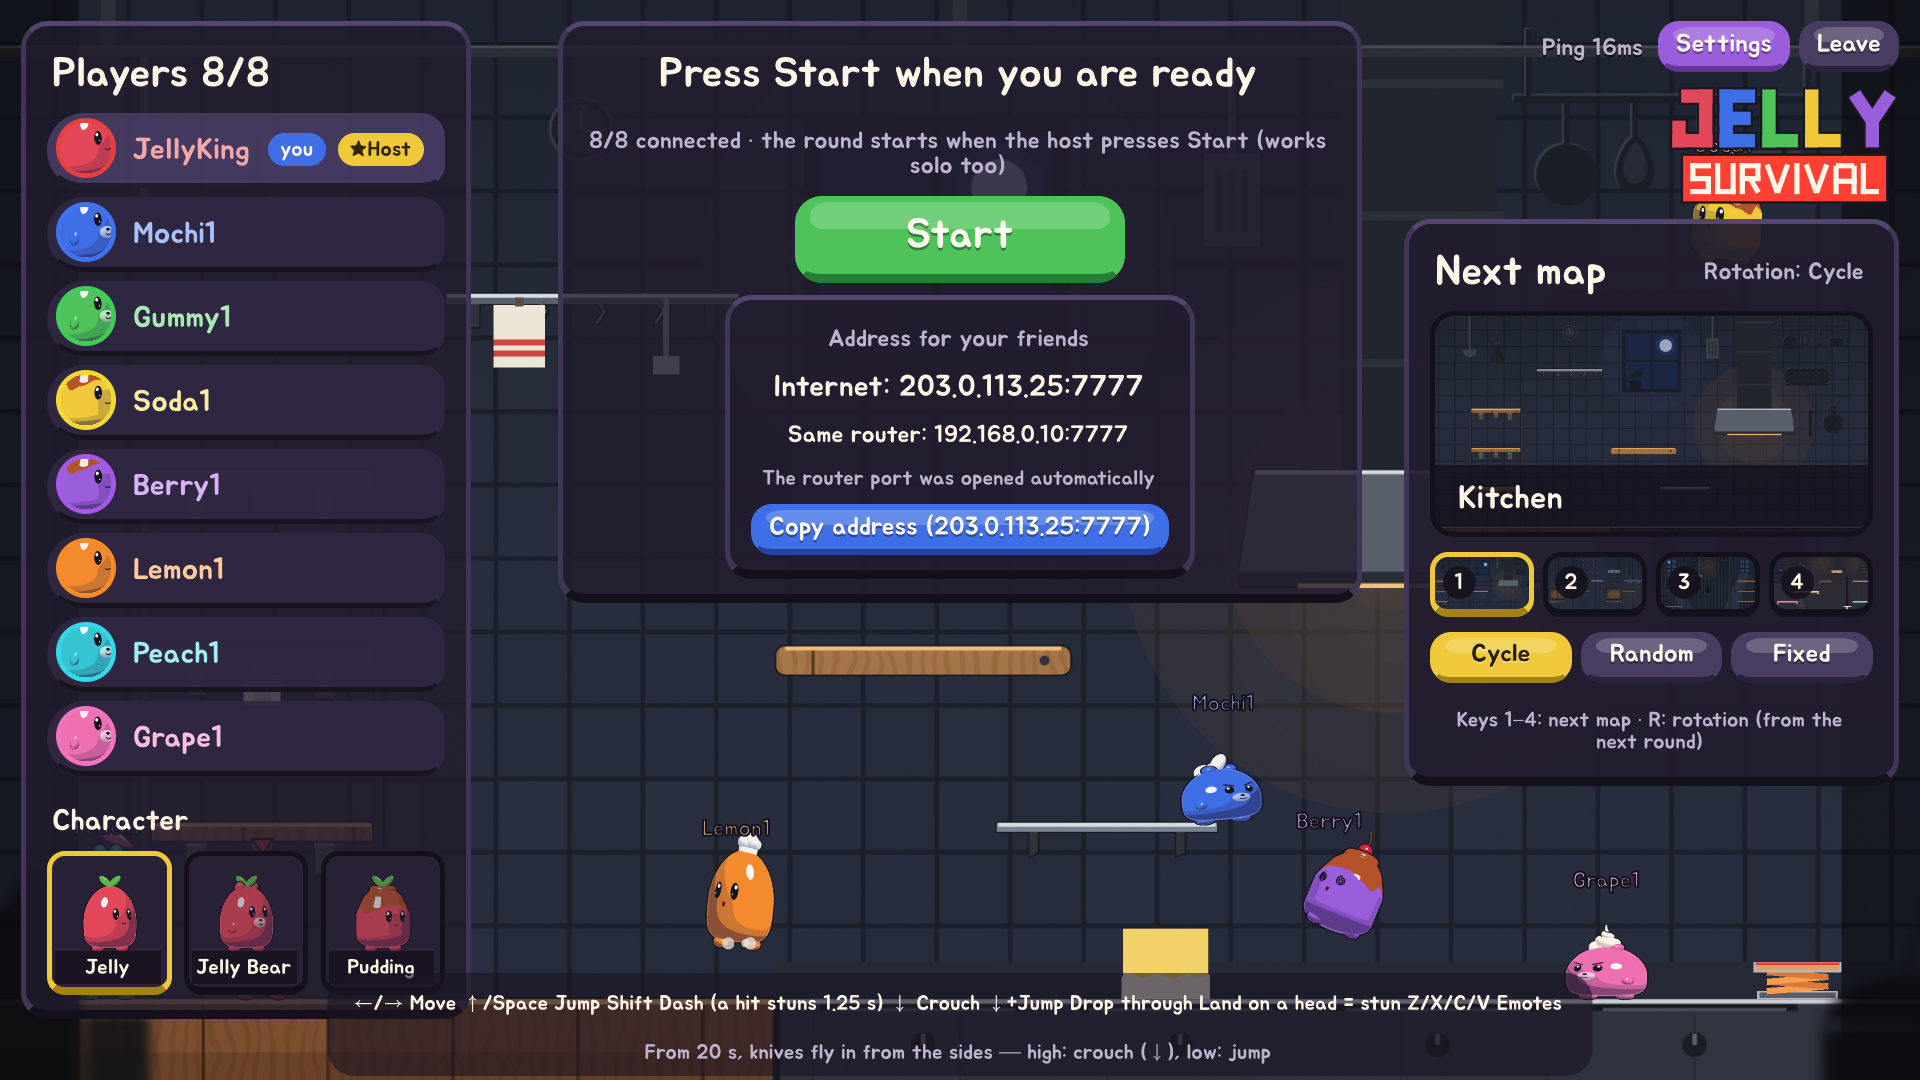
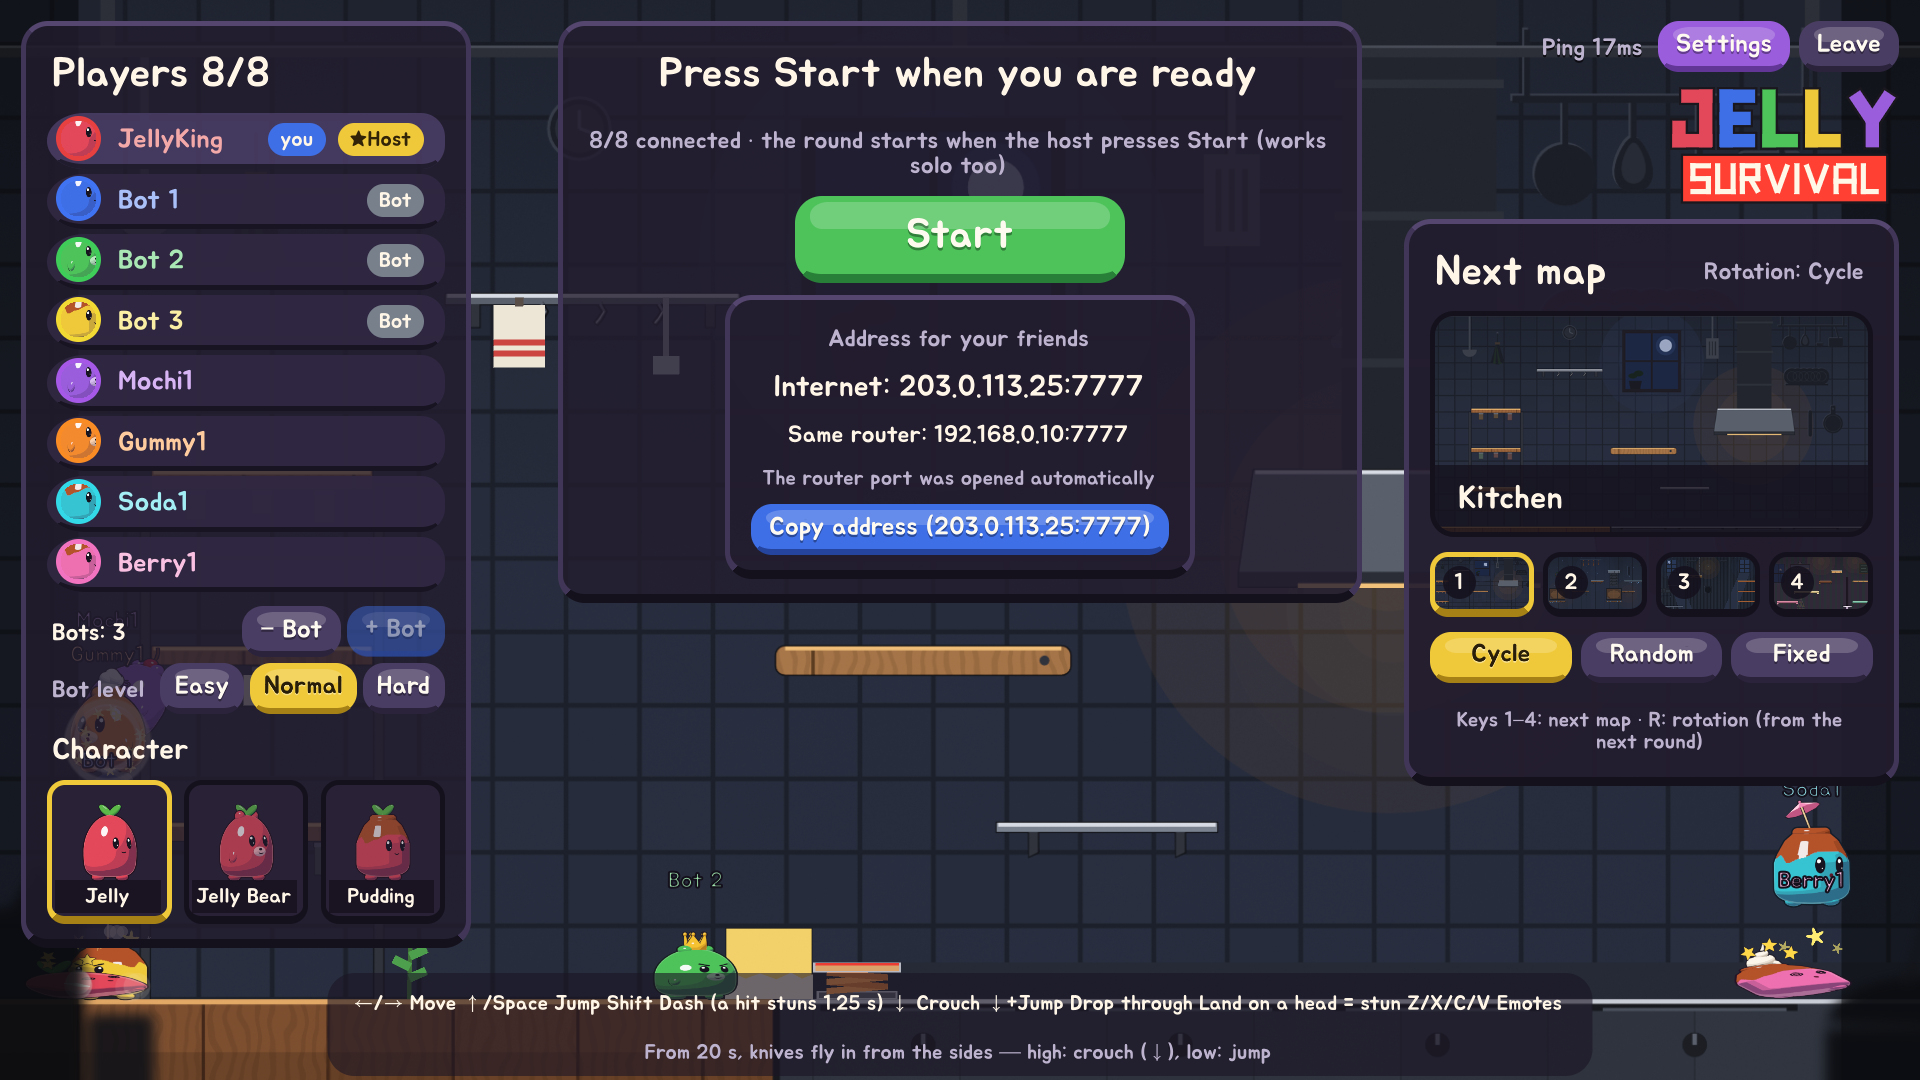
Store update 1.0.2.0: play solo and bots, submitted for certification
Submission 1 (1.0.1.0) passed certification and is live in the Store.
Submission 2 carries the solo/bots build (protocol v14):
- Package version 1.0.2.0 (store_config.json), uploaded and validated.
- Listing (ko/en): solo play against 7 bots with a level, host bot
  controls, two more product features, release notes; the "no computer
  opponents" line is gone. Screenshots 01 and 02 retaken.
- Client -bots N (host adds N server bots in the lobby) for the lobby
  screenshot; take_screenshots.py uses 4 console bots plus -bots 3.
- Certification notes point testers at Play solo.
- docs/work/store.md section 16, bots.md.

diff --git a/Client/Assets/Scripts/Game/GameBootstrap.cs b/Client/Assets/Scripts/Game/GameBootstrap.cs
@@ -18,6 +18,7 @@ namespace OnlineSeverGame.Client.Game
     //   -host(켜자마자 방 만들기) -autostart(방장이면 대기 화면에서 바로 '시작')  -port <N>(방 만들기 포트, 기본 7777)
     //   -demoaddress(Store 스크린샷용: 방장 주소 칸에 예시 주소, UPnP 안 함)
     //   -offline [easy|normal|hard](켜자마자 혼자 하기: 이 PC 안의 서버 + 봇 7명, docs/work/bots.md)
+    //   -bots <N>(방장이면 대기 화면에서 서버 봇 N명을 넣는다. Store 스크린샷용)
     //   -name <이름>  -server <host:port>  -autoconnect  -preview  -autoplay [chase|stomp|mash|motion|pad](무작위 입력 / 가까운 상대 쫓아 대시 / 쫓아 밟기 / 대시 연타 / 동작 차례로 보이기 / 점프 발판 밀고 타기)
     //   -nostomppredict(밟기 튕김 예측 끄기, 비교 시험용)
     //   -screenshot <파일경로> -screenshotDelay <초> [-screenshotEvery <초>]  -quitAfter <초>
@@ -62,6 +63,7 @@ namespace OnlineSeverGame.Client.Game
         ClientScreen _loggedScreen = ClientScreen.Connect;
         int _builtLayoutVersion;
         bool _autoStart, _autoStarted;
+        int _autoBots;
 
         void Awake()
         {
@@ -107,6 +109,7 @@ namespace OnlineSeverGame.Client.Game
                     case "-autoconnect": autoConnect = true; break;
                     case "-host": autoHost = true; break;
                     case "-autostart": _autoStart = true; break;
+                    case "-bots": if (int.TryParse(next, out var nb) && nb > 0) _autoBots = Mathf.Min(nb, 7); break;
                     case "-demoaddress": LocalHost.DemoAddress = true; break;
                     case "-port": if (int.TryParse(next, out var port) && port > 0 && port < 65536) HostPort = port; break;
                     case "-preview": preview = true; break;
@@ -185,6 +188,10 @@ namespace OnlineSeverGame.Client.Game
                 // 이모트: 접속 화면(이름 입력)만 빼고. 살아 있는지는 세션·서버가 본다.
                 var emote = _input.TakeEmote();
                 if (emote != 0 && screen != ClientScreen.Connect) Session.SendEmote(emote);
+                if (_autoBots > 0 && Session.State.IsHost && screen == ClientScreen.Lobby)
+                {
+                    for (; _autoBots > 0; _autoBots--) Session.RequestBot(BotAction.Add, 0);
+                }
                 if (_autoStart && !_autoStarted && Session.State.IsHost && Session.State.HostStarts && screen == ClientScreen.Lobby)
                 {
                     _autoStarted = true;

diff --git a/Tools/StorePackage/take_screenshots.py b/Tools/StorePackage/take_screenshots.py
@@ -43,15 +43,16 @@ def connect_screen(lang, out):
 
 
 def lobby_run(lang, port, out):
-    """The host's lobby: the client creates the room itself, 7 bots join, nobody presses Start."""
+    """The host's lobby: the client creates the room itself, 4 friends (console bots) join and the host adds 3
+    server bots (-bots 3, docs/work/bots.md); nobody presses Start."""
     name, kind = PLAYER[lang]
-    cl = client(lang, ["-host", "-port", str(port), "-demoaddress", "-name", name, "-character", kind,
+    cl = client(lang, ["-host", "-port", str(port), "-demoaddress", "-bots", "3", "-name", name, "-character", kind,
                        "-screenshot", f"{out}/lobby_{{n}}.png", "-screenshotDelay", "8", "-screenshotEvery", "2",
                        "-quitAfter", "16"],
                 os.path.join(out, "client_lobby.log"))
     time.sleep(4)
     bots = []
-    for i, bn in enumerate(BOT_NAMES):
+    for i, bn in enumerate(BOT_NAMES[:4]):
         bots.append(subprocess.Popen([BOT, "--port", str(port), "--count", "1", "--name", bn,
                                       "--seed", str(900 + i * 17 + (7 if lang == "en" else 0)), "--duration", "14"],
                                      stdout=subprocess.DEVNULL, stderr=subprocess.DEVNULL))
@@ -77,7 +78,7 @@ def map_run(lang, stage, port, out):
                 os.path.join(out, f"client_map{stage}.log"))
     time.sleep(5)                      # the client joins first and becomes host
     bots = []
-    for i, bn in enumerate(BOT_NAMES):
+    for i, bn in enumerate(BOT_NAMES[:4]):
         bots.append(subprocess.Popen([BOT, "--port", str(port), "--count", "1", "--name", bn,
                                       "--seed", str(stage * 100 + i * 17 + (7 if lang == "en" else 0)),
                                       "--rounds", "2"],

diff --git a/Art/store/listing.md b/Art/store/listing.md
@@ -13,7 +13,7 @@ Partner Center > 앱 > 제출 > **Store listings** > 언어(한국어 / English)
 Jelly Survival Party (예약됨, Store ID 9N6RLMM91V9V. "Jelly Survival"은 다른 곳이 이미 예약)
 
 ### 짧은 설명 (권장 270자 이내)
-손바닥만 한 젤리가 되어 주방 위에서 떨어지는 식칼을 피하세요! 최대 8명이 함께 접속해 마지막까지 살아남는 사람이 이기는 온라인 생존 파티 게임입니다. 대시로 밀치고, 머리를 밟아 기절시키고, 엎드려 날아오는 칼을 피하세요.
+손바닥만 한 젤리가 되어 주방 위에서 떨어지는 식칼을 피하세요! 최대 8명이 함께 접속해 마지막까지 살아남는 사람이 이기는 생존 파티 게임입니다. 친구와 온라인으로, 또는 혼자 봇 7명과 겨루세요. 대시로 밀치고, 머리를 밟아 기절시키고, 엎드려 날아오는 칼을 피하세요.
 
 ### 설명
 Jelly Survival Party는 최대 8명이 함께 하는 2D 온라인 생존 파티 게임입니다. 커다란 주방에 사는 말랑한 젤리·젤리곰·푸딩이 되어, 위에서 떨어지는 식칼을 피하고 마지막 한 명이 될 때까지 버티세요.
@@ -28,12 +28,14 @@ Jelly Survival Party는 최대 8명이 함께 하는 2D 온라인 생존 파티 
 - 창고: 좌우로 오가는 크레인 팔레트, 한 방향으로 움직이는 컨베이어 벨트
 - 디저트 가게: 오르내리는 케이크 리프트, 걸음을 느리게 하는 시럽 바닥
 
-한 명이 '방 만들기'를 누르면 그 PC가 방장이 되고, 친구들은 방장이 알려 주는 주소로 참가합니다. 따로 서버를 빌리거나 계정을 만들 필요가 없습니다. 방장은 원할 때 '시작'을 눌러 판을 열고(혼자서도 시작할 수 있어요), 다음 판의 맵과 맵 순서(차례대로·무작위·고정)를 고를 수 있습니다. 판이 끝나면 1~3위 단상이 나오고 바로 다음 판이 시작됩니다.
+한 명이 '방 만들기'를 누르면 그 PC가 방장이 되고, 친구들은 방장이 알려 주는 주소로 참가합니다. 따로 서버를 빌리거나 계정을 만들 필요가 없습니다. 방장은 원할 때 '시작'을 눌러 판을 열고(혼자서도 시작할 수 있어요), 다음 판의 맵과 맵 순서(차례대로·무작위·고정)를 고를 수 있습니다. 판이 끝나면 1~3위 단상이 나오고 바로 다음 판이 시작됩니다. 사람이 모자라면 방장이 대기실에서 봇을 넣을 수 있습니다.
+
+친구가 없어도 괜찮아요. '혼자 하기'를 누르면 인터넷 없이 봇 7명과 바로 한 판을 할 수 있습니다. 봇 난이도는 쉬움·보통·어려움 중에서 고르세요. 어려움 봇은 위험물을 금방 피하고, 다가와서 대시로 밀칩니다.
 
 캐릭터는 젤리, 젤리곰, 푸딩 세 가지이고, 색은 접속 순서대로 여덟 가지 중 하나가 정해집니다. Z·X·C·V 키로 손 흔들기, 놀리기, 응원, 슬퍼하기 이모트를 보낼 수 있습니다. 한국어와 영어를 지원합니다.
 
 알아 두세요
-- 친구와 함께 하는 온라인 게임입니다. 방장의 PC가 방을 열고, 다른 사람은 그 주소(IP:포트)로 참가합니다. 컴퓨터 상대는 없습니다(혼자 방을 만들어 연습할 수는 있어요).
+- 친구와 함께 할 때는 방장의 PC가 방을 열고, 다른 사람은 그 주소(IP:포트)로 참가합니다. 혼자 하기(봇과 대결)는 인터넷 없이 됩니다.
 - 같은 공유기에서는 바로 됩니다. 인터넷으로 친구를 받으려면 방장의 공유기에서 TCP 7777 포트가 열려 있어야 합니다. 게임이 공유기의 UPnP로 자동으로 열어 보고, 안 되면 공유기 설정에서 포트포워딩을 해야 합니다. 일부 인터넷 환경(공유기가 두 단계인 경우 등)에서는 방장을 할 수 없습니다.
 - 키보드로 조작합니다(메뉴는 마우스). 게임패드는 지원하지 않습니다.
 - 계정, 결제, 광고, 채팅이 없습니다. 플레이어 이름은 같은 방의 다른 사람에게 보이니 실명은 쓰지 마세요.
@@ -50,6 +52,8 @@ Jelly Survival Party는 최대 8명이 함께 하는 2D 온라인 생존 파티 
 젤리·젤리곰·푸딩 세 캐릭터, 여덟 가지 색
 이모트 4종과 1~3위 결과 단상
 방 만들기 한 번으로 친구들과 바로: 방장이 시작·다음 맵·맵 순서를 고르기
+혼자 하기: 봇 7명과 대결, 난이도 쉬움·보통·어려움
+방장이 대기실에서 봇을 넣고 빼기
 한국어·영어 지원
 
 ### 키워드 (7개)
@@ -62,8 +66,8 @@ Jelly Survival Party는 최대 8명이 함께 하는 2D 온라인 생존 파티 
 8인
 
 ### 스크린샷 설명 (파일 이름 → 설명)
-- 01_connect: 캐릭터를 고르고 방을 만들거나, 친구 방 주소로 참가
-- 02_lobby: 방장 화면: 친구에게 알려 줄 주소, 준비되면 시작
+- 01_connect: 캐릭터를 고르고 방을 만들거나, 혼자 봇과 하거나, 친구 방 주소로 참가
+- 02_lobby: 방장 화면: 친구에게 알려 줄 주소, 봇 넣기와 난이도, 준비되면 시작
 - 03_kitchen: 빨간 예고를 보고 떨어지는 식칼을 피하세요
 - 04_winter: 고드름이 떨어지는 미끄러운 겨울 처마
 - 05_warehouse: 움직이는 팔레트와 컨베이어 벨트의 창고
@@ -74,7 +78,7 @@ Jelly Survival Party는 최대 8명이 함께 하는 2D 온라인 생존 파티 
 © 2026 Jungsh. 글꼴: 배달의민족 주아체(SIL Open Font License 1.1).
 
 ### 추가 시스템 요구 사항 (최소)
-인터넷 연결
+인터넷 연결(친구와 온라인으로 할 때)
 키보드
 DirectX 11 이상을 지원하는 그래픽
 
@@ -86,7 +90,7 @@ DirectX 11 이상을 지원하는 그래픽
 Jelly Survival Party
 
 ### Short description (keep under 270 characters)
-Become a tiny jelly and dodge the kitchen knives raining from above! Up to 8 players join online and the last one standing wins. Dash to shove, stomp heads to stun, and duck under knives flying in from the side.
+Become a tiny jelly and dodge the kitchen knives raining from above! Up to 8 players, the last one standing wins: play friends online or take on 7 bots alone. Dash to shove, stomp heads to stun, and duck under knives flying in from the side.
 
 ### Description
 Jelly Survival Party is a 2D online survival party game for up to 8 players. Play as a squishy jelly, jelly bear or pudding living in a giant kitchen, dodge the knives that drop from above, and hold out until you are the last one left.
@@ -101,12 +105,14 @@ Four maps, each with its own twist:
 - Warehouse: a crane pallet sliding back and forth and a conveyor belt
 - Dessert Shop: a cake lift that rises and sinks and a syrup floor that slows you down
 
-One player presses Create room and their PC becomes the host; friends join with the address the host shares. No server to rent and no account. The host presses Start whenever they are ready (you can even start alone) and picks the next map and how maps change (in order, random or fixed). When a round ends the top three stand on the podium and the next round starts right away.
+One player presses Create room and their PC becomes the host; friends join with the address the host shares. No server to rent and no account. The host presses Start whenever they are ready (you can even start alone) and picks the next map and how maps change (in order, random or fixed). When a round ends the top three stand on the podium and the next round starts right away. Short of players? The host can add bots in the lobby.
+
+No friends around? Press Play solo for a round against 7 bots right away, no internet needed. Pick the bot level: Easy, Normal or Hard. Hard bots dodge fast and come over to dash into you.
 
 Choose between jelly, jelly bear and pudding; your color is one of eight, given by join order. Send emotes with Z, X, C and V (wave, taunt, cheer, sad). Available in English and Korean.
 
 Good to know
-- An online game to play with friends. The host's PC opens the room and everyone else joins with its address (IP:port). There are no computer opponents (you can create a room and practice alone).
+- With friends, the host's PC opens the room and everyone else joins with its address (IP:port). Play solo (against bots) works without the internet.
 - It works right away on the same router. To take friends over the internet, TCP port 7777 must be open on the host's router: the game tries to open it automatically with UPnP, otherwise forward the port in the router settings. Some connections (for example two routers in a row) cannot host.
 - Played with the keyboard (mouse for menus). Gamepads are not supported.
 - No accounts, payments, ads or chat. Your player name is visible to others in the room, so do not use your real name.
@@ -123,6 +129,8 @@ Four maps with mid-round events: fire, wind, conveyors, syrup
 Three characters (jelly, jelly bear, pudding) in eight colors
 Four emotes and a top-three podium after every round
 Create a room and play with friends: the host starts rounds and picks maps
+Play solo against 7 bots: Easy, Normal or Hard
+The host can add or remove bots in the lobby
 English and Korean
 
 ### Keywords (7)
@@ -135,8 +143,8 @@ platformer
 8 players
 
 ### Screenshot captions (file → caption)
-- 01_connect: Pick your character, then create a room or join a friend's
-- 02_lobby: The host's lobby: an address to share, and Start when ready
+- 01_connect: Pick your character, then create a room, play solo against bots, or join a friend's
+- 02_lobby: The host's lobby: an address to share, bots and their level, and Start when ready
 - 03_kitchen: Watch the red warning and dodge the falling knife
 - 04_winter: Icicles fall on the slippery winter eaves
 - 05_warehouse: A warehouse of moving pallets and conveyor belts
@@ -147,6 +155,6 @@ platformer
 © 2026 Jungsh. Font: Jua by Woowahan Brothers (SIL Open Font License 1.1).
 
 ### Additional system requirements (minimum)
-Internet connection
+Internet connection (to play with friends online)
 Keyboard
 Graphics with DirectX 11 or later

diff --git a/CLAUDE.md b/CLAUDE.md
@@ -34,7 +34,7 @@ Unity generates `.meta` files inside `Shared/`; commit them together with `Share
   - options: `--host`, `--port`, `--count N`, `--name Bot`, `--seed N`, `--rounds N` (exit after N rounds), `--drop-one-after SECONDS` (abruptly disconnect the last bot that many seconds into the first round), `--duration SECONDS`, `--ai dodge|random` (default `dodge`: bots notice knife warnings after a 2-8 tick reaction time and get out from under them, and duck under head-height / jump over low side knives; both wander, jump, dash, crouch and drop off platforms at random, and play an emote about every 10 s). Each bot joins as a random character kind (from its seed)
 - Server install packages for the public server (macOS/Linux tar.gz, Windows zip, named by protocol version): `python -I Tools/ServerPackage/package_server.py` → `artifacts/server/` (see `docs/work/online-server.md` 6).
 - Scripted check (two terminals): server with `--exit-after-rounds 2`, bots with `--rounds 2 --drop-one-after 5`.
-- Client test switches: `Client/Build/Windows/Client.exe -server 127.0.0.1:7777 -autoconnect -autoplay [chase|stomp|mash|motion]` (see `docs/work/gameplay-2.md`; `motion` cycles idle, run, turn, jump, crouch, the four emotes and dash, `docs/work/char-motion.md`), `-screenshot <path{n}> -screenshotDelay S -screenshotEvery S`, `-touchshot <path{n}>`, `-blinkshot <path{n}>` (frames with a stun-immune player blinking, `docs/work/dash-side-knife.md`), `-quitAfter S`, `-character jelly|bear|pudding` (this run only, not saved), `-host` (create a room on start), `-autostart` (as host, press Start right away), `-port N` (room port, default 7777), `-offline [easy|normal|hard]` (play solo against 7 server-run bots right away), `-preview` (the old rough preview without a server, for UI work only).
+- Client test switches: `Client/Build/Windows/Client.exe -server 127.0.0.1:7777 -autoconnect -autoplay [chase|stomp|mash|motion]` (see `docs/work/gameplay-2.md`; `motion` cycles idle, run, turn, jump, crouch, the four emotes and dash, `docs/work/char-motion.md`), `-screenshot <path{n}> -screenshotDelay S -screenshotEvery S`, `-touchshot <path{n}>`, `-blinkshot <path{n}>` (frames with a stun-immune player blinking, `docs/work/dash-side-knife.md`), `-quitAfter S`, `-character jelly|bear|pudding` (this run only, not saved), `-host` (create a room on start), `-autostart` (as host, press Start right away), `-port N` (room port, default 7777), `-offline [easy|normal|hard]` (play solo against 7 server-run bots right away), `-bots N` (as host, add N server bots in the waiting room; Store screenshots), `-preview` (the old rough preview without a server, for UI work only).
 
 Build output goes to `artifacts/` (see `Directory.Build.props`), never into `Shared/`, so Unity does not pick up generated files.
 

diff --git a/docs/work/bots.md b/docs/work/bots.md
@@ -78,8 +78,9 @@ Client/Build/Windows/Client.exe -offline hard
   - 손님 화면에도 서버 봇이 같이 뛰고, 손님 로그에 `bots 0x02 Normal`이 찍힘.
   - 클라이언트 로그에 예외 없음.
 - 못 한 것: 사람이 직접 오래 해 보며 난이도가 알맞은지는 보지 않았다(숫자는 위 테스트뿐).
-- 못 한 것: Store에 올라간 1.0.1.0 패키지는 v13이다. 이 변경을 내려면 패키지를 새로 만들어(버전 1.0.2.0) 다시 제출해야 한다. v13 게임과 v14 게임은 서로 접속할 수 없다(버전 불일치로 거절).
+- Store: 1.0.2.0으로 업데이트를 제출했다(인증 중, `docs/work/store.md` 16장). Store에 있는 1.0.1.0은 v13이라 v14 게임과 서로 접속할 수 없다(버전 불일치로 거절).
 
 ## 5. 변경 기록
 
 - 2026-11-11: 처음 만듦. 서버 봇(v14), 혼자 하기(이 PC 안의 서버 + 봇 7명, 난이도 선택), 방장 대기실 봇 버튼.
+- 2026-11-11: Store 스크린샷용 `-bots N` 인자. Store 업데이트 1.0.2.0 제출.
